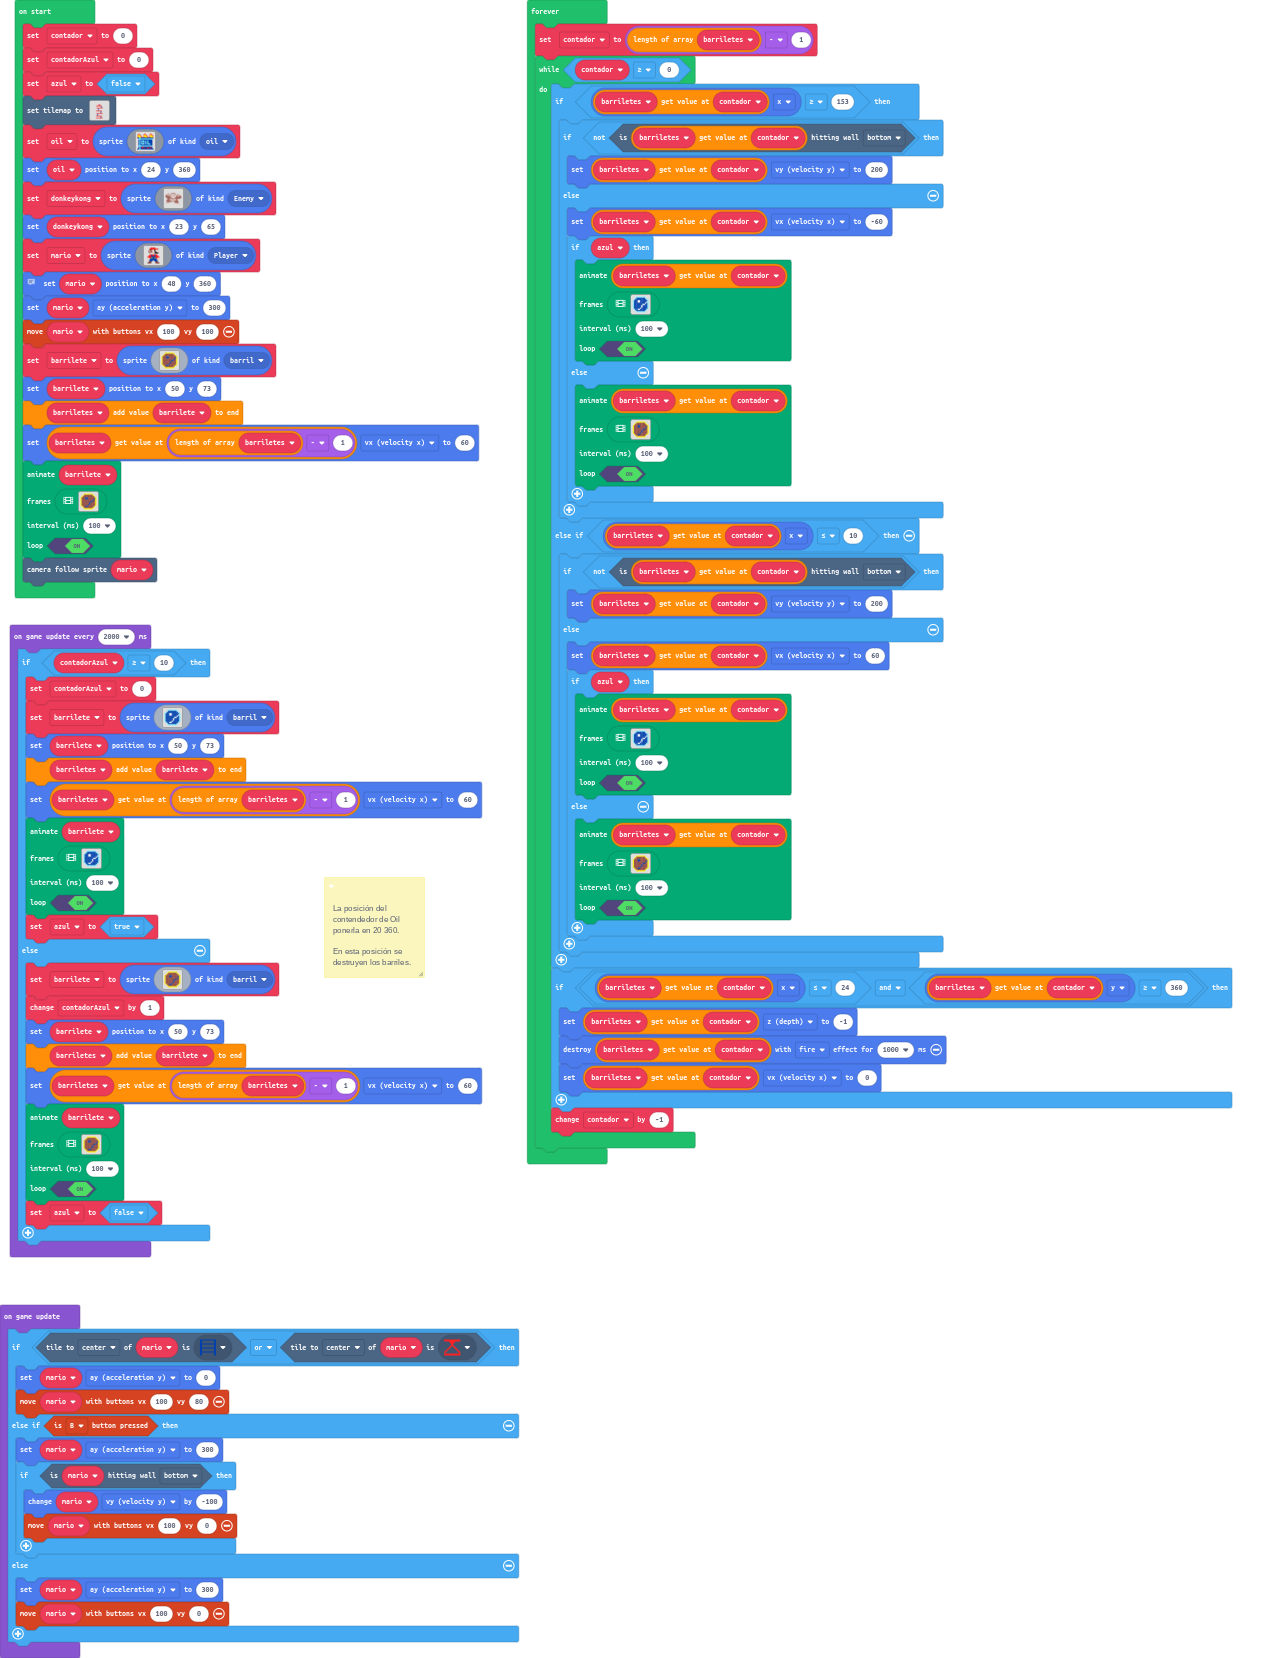
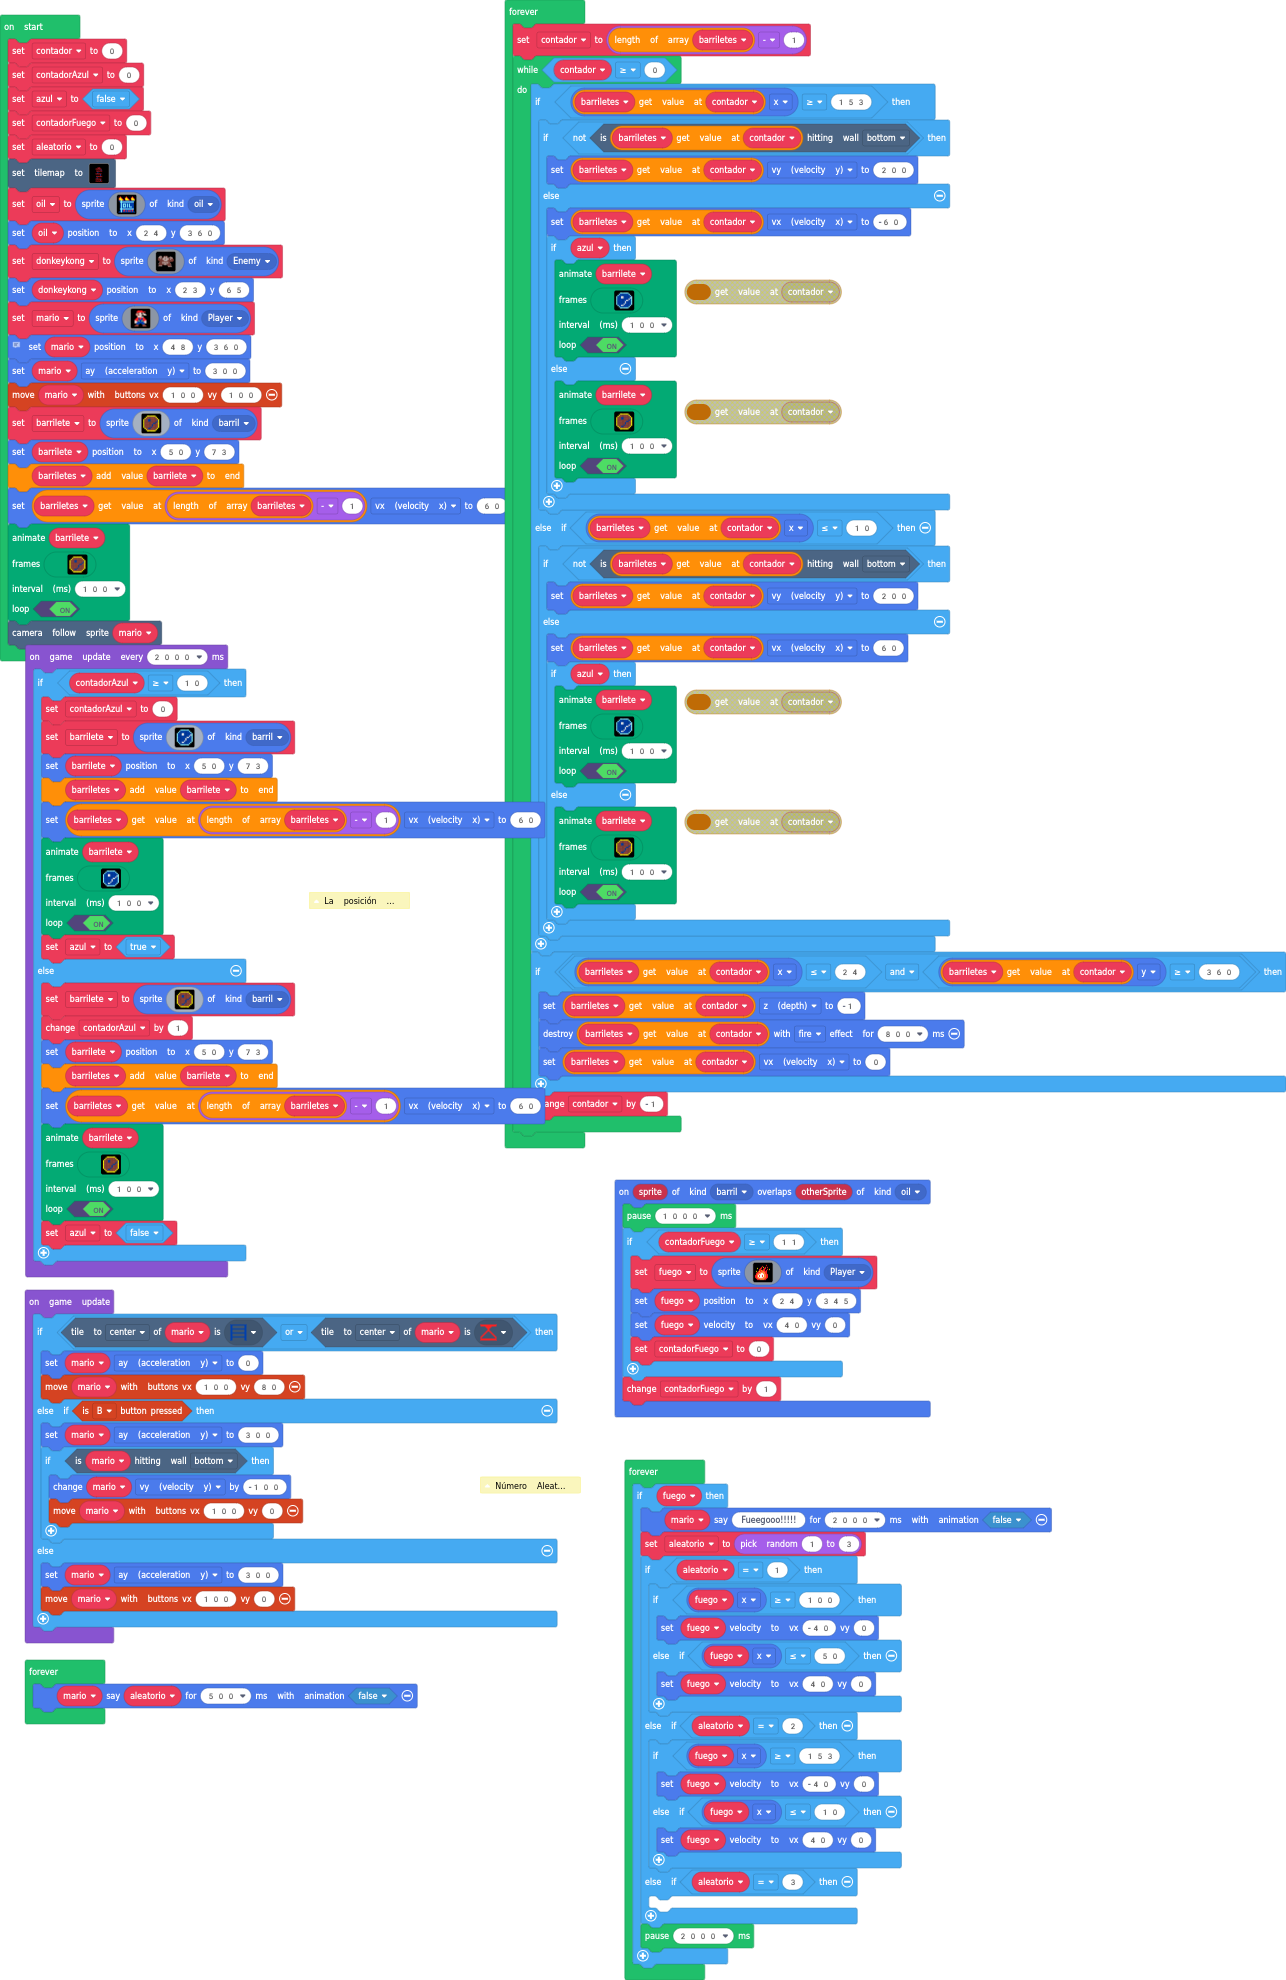
Hemos puesto que cada cierto tiempo caiga un barril azul y cuando este toque el bidón de gasolina salga un fuego.

diff --git a/main.ts b/main.ts
@@ -3,10 +3,24 @@ namespace SpriteKind {
     export const barril = SpriteKind.create()
     export const oil = SpriteKind.create()
 }
+sprites.onOverlap(SpriteKind.barril, SpriteKind.oil, function (sprite, otherSprite) {
+    pause(1000)
+    if (contadorFuego >= 11) {
+        fuego = sprites.create(assets.image`Fueguito`, SpriteKind.Player)
+        fuego.setPosition(24, 345)
+        fuego.setVelocity(40, 0)
+        contadorFuego = 0
+    }
+    contadorFuego += 1
+})
+let fuego: Sprite = null
 let barriletes: Sprite[] = []
+let contadorFuego = 0
 let contador = 0
 let contadorAzul = 0
 let azul = false
+contadorFuego = 0
+let aleatorio = 0
 tiles.setTilemap(tilemap`level1`)
 let oil = sprites.create(assets.image`OIL`, SpriteKind.oil)
 oil.setPosition(24, 360)
@@ -30,6 +44,15 @@ assets.animation`BarrileteAlante`,
 true
 )
 scene.cameraFollowSprite(mario)
+/**
+ * Número Aleatorio movimiento Fuego
+ * 
+ * 1 --> Izq - Derch corto
+ * 
+ * 2 --> por toda la plattaforma
+ * 
+ * 3 --> toda la plataforma y si toca las escaleras suba por ellas.
+ */
 game.onUpdate(function () {
     if (mario.tileKindAt(TileDirection.Center, assets.tile`escaleras`) || mario.tileKindAt(TileDirection.Center, assets.tile`viga`)) {
         mario.ay = 0
@@ -46,9 +69,11 @@ game.onUpdate(function () {
     }
 })
 /**
- * La posición del contendedor de Oil ponerla en 20 360.
+ * La posición del contendedor de Oil ponerla en 24 360.
  * 
  * En esta posición se destruyen los barriles.
+ * 
+ * Se generan los fuegos en 35 360
  */
 game.onUpdateInterval(2000, function () {
     if (contadorAzul >= 10) {
@@ -89,14 +114,14 @@ forever(function () {
                 barriletes[contador].vx = -60
                 if (azul) {
                     animation.runImageAnimation(
-                    barriletes[contador],
+                    barrilete,
                     assets.animation`BarrileteAlante-azul`,
                     100,
                     true
                     )
                 } else {
                     animation.runImageAnimation(
-                    barriletes[contador],
+                    barrilete,
                     assets.animation`BarrileteAlante`,
                     100,
                     true
@@ -110,14 +135,14 @@ forever(function () {
                 barriletes[contador].vx = 60
                 if (azul) {
                     animation.runImageAnimation(
-                    barriletes[contador],
+                    barrilete,
                     assets.animation`BarrileteAtras-azul`,
                     100,
                     true
                     )
                 } else {
                     animation.runImageAnimation(
-                    barriletes[contador],
+                    barrilete,
                     assets.animation`BarrileteAtras`,
                     100,
                     true
@@ -127,9 +152,34 @@ forever(function () {
         }
         if (barriletes[contador].x <= 24 && barriletes[contador].y >= 360) {
             barriletes[contador].z = -1
-            barriletes[contador].destroy(effects.fire, 1000)
+            barriletes[contador].destroy(effects.fire, 800)
             barriletes[contador].vx = 0
         }
         contador += -1
     }
+})
+forever(function () {
+    if (fuego) {
+        mario.sayText("Fueegooo!!!!!", 2000, false)
+        aleatorio = randint(1, 3)
+        if (aleatorio == 1) {
+            if (fuego.x >= 100) {
+                fuego.setVelocity(-40, 0)
+            } else if (fuego.x <= 50) {
+                fuego.setVelocity(40, 0)
+            }
+        } else if (aleatorio == 2) {
+            if (fuego.x >= 153) {
+                fuego.setVelocity(-40, 0)
+            } else if (fuego.x <= 10) {
+                fuego.setVelocity(40, 0)
+            }
+        } else if (aleatorio == 3) {
+        	
+        }
+        pause(2000)
+    }
+})
+forever(function () {
+    mario.sayText(aleatorio, 500, false)
 })

diff --git a/images.g.ts b/images.g.ts
@@ -263,24 +263,6 @@ f f f 8 f f f f f f f f 8 f f f
 . 8 8 9 9 9 9 9 9 9 8 8 . . . . 
 . . 8 8 8 9 9 9 9 8 8 . . . . . 
 `;
-            case "image15":
-            case "Fueguito":return img`
-. . . . . . . . . . . 2 . . . . 
-. . . . . . . 2 . . . . . . . . 
-. . . . . . 2 . 5 . 2 . 2 . . . 
-. . 5 . . 2 2 . . 2 2 . . . . . 
-. . . . 2 2 . . 2 2 . . 2 . 5 . 
-. . . . 2 2 5 2 2 2 . 2 . . . . 
-. 5 . 2 5 2 2 4 4 2 2 2 . . . . 
-. . 2 2 2 4 4 4 4 4 2 2 . . . . 
-. 2 2 4 4 4 1 1 4 4 2 2 . . . . 
-. 2 4 4 1 1 1 1 1 4 4 2 2 . . . 
-2 2 4 1 2 1 1 2 1 4 4 2 2 . . . 
-2 2 4 1 2 1 1 2 1 4 4 2 2 . . . 
-2 2 4 4 1 1 1 1 4 4 4 2 2 . . . 
-. 2 2 4 4 4 4 4 4 4 2 2 . . . . 
-. . 2 2 2 4 4 4 4 2 2 . . . . . 
-`;
             case "image16":
             case "martillo-right":return img`
 . . . . . . . 2 2 2 2 . . 
@@ -421,6 +403,24 @@ f f f 8 f f f f f f f f 8 f f f
 . 9 8 8 1 1 8 8 8 8 8 9 . 
 . . 9 8 8 8 8 8 8 8 9 . . 
 . . . 9 9 9 9 9 9 9 . . . 
+`;
+            case "image15":
+            case "Fueguito":return img`
+. . . . . . . . . . . 2 . . . . 
+. . . . . . . 2 . . . . . . . . 
+. . . . . . 2 . 5 . 2 . 2 . . . 
+. . 5 . . 2 2 . . 2 2 . . . . . 
+. . . . 2 2 . . 2 2 . . 2 . 5 . 
+. . . . 2 2 5 2 2 2 . 2 . . . . 
+. 5 . 2 5 2 2 4 4 2 2 2 . . . . 
+. . 2 2 2 4 4 4 4 4 2 2 . . . . 
+. 2 2 4 4 4 1 1 4 4 2 2 . . . . 
+. 2 4 4 1 1 1 1 1 4 4 2 2 . . . 
+2 2 4 1 2 1 1 2 1 4 4 2 2 . . . 
+2 2 4 1 2 1 1 2 1 4 4 2 2 . . . 
+2 2 4 4 1 1 1 1 4 4 4 2 2 . . . 
+. 2 2 4 4 4 4 4 4 4 2 2 . . . . 
+. . 2 2 2 4 4 4 4 2 2 . . . . . 
 `;
         }
         return null;
